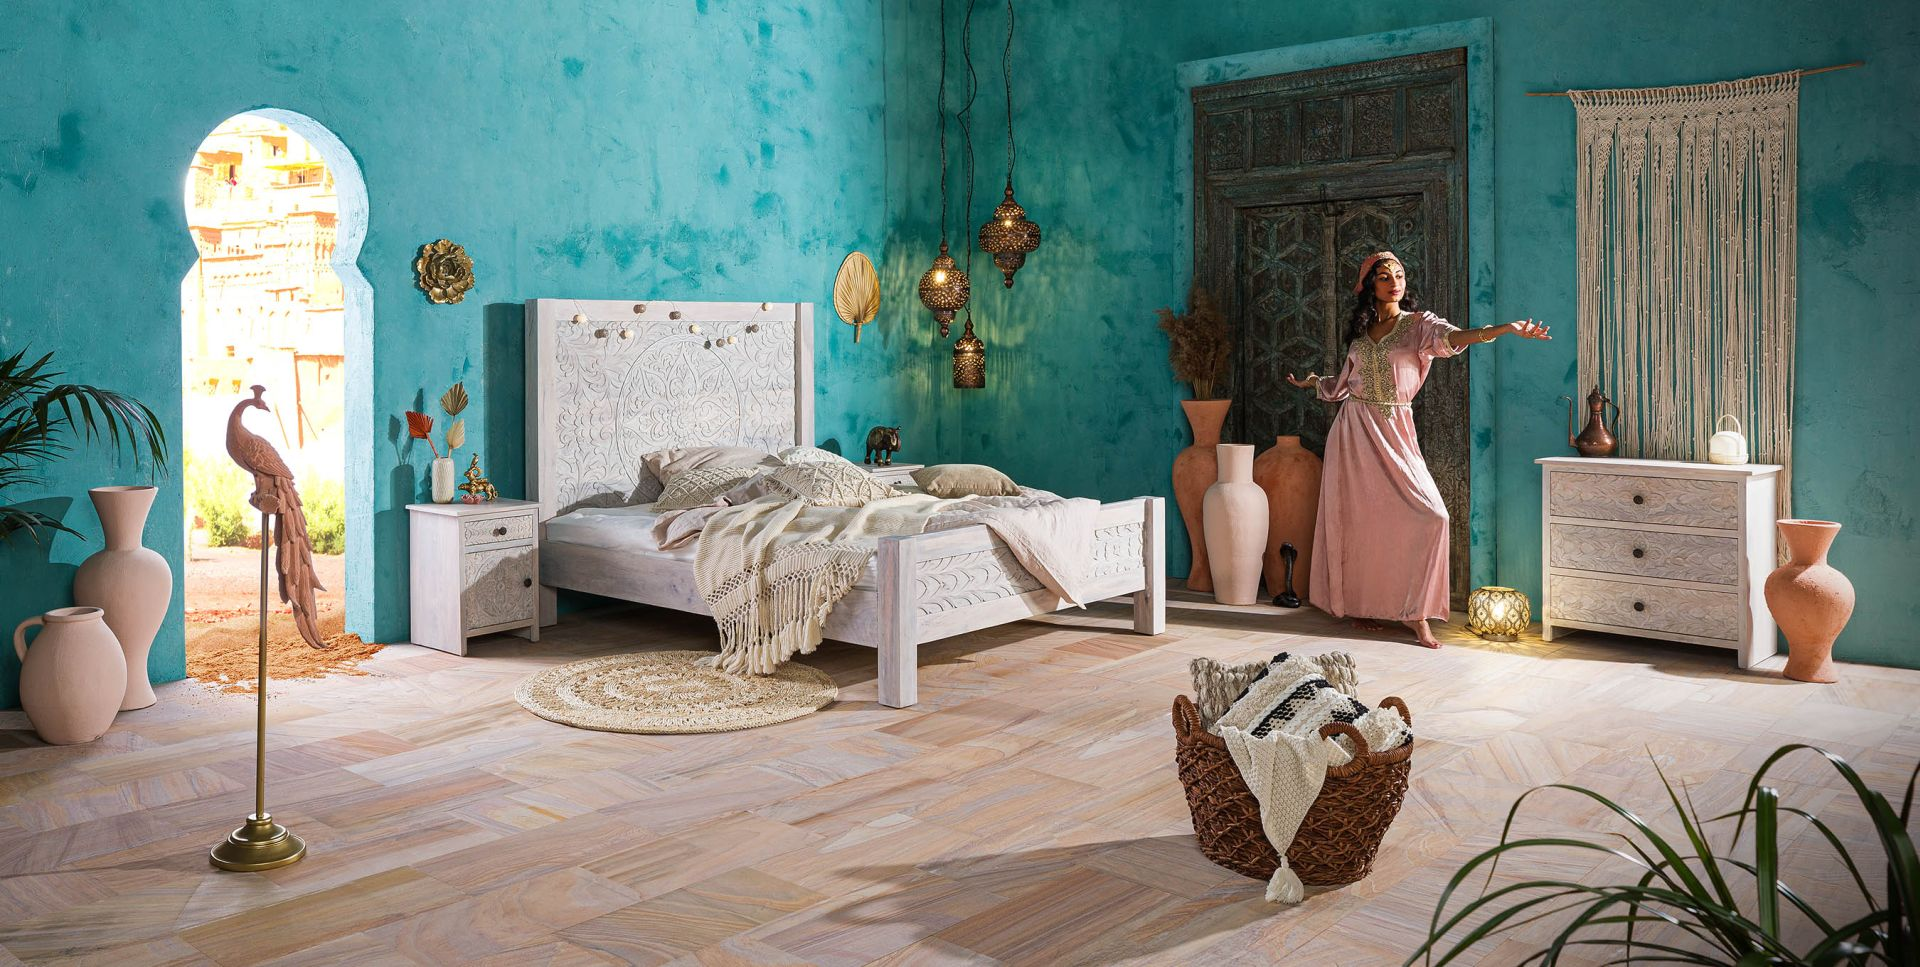
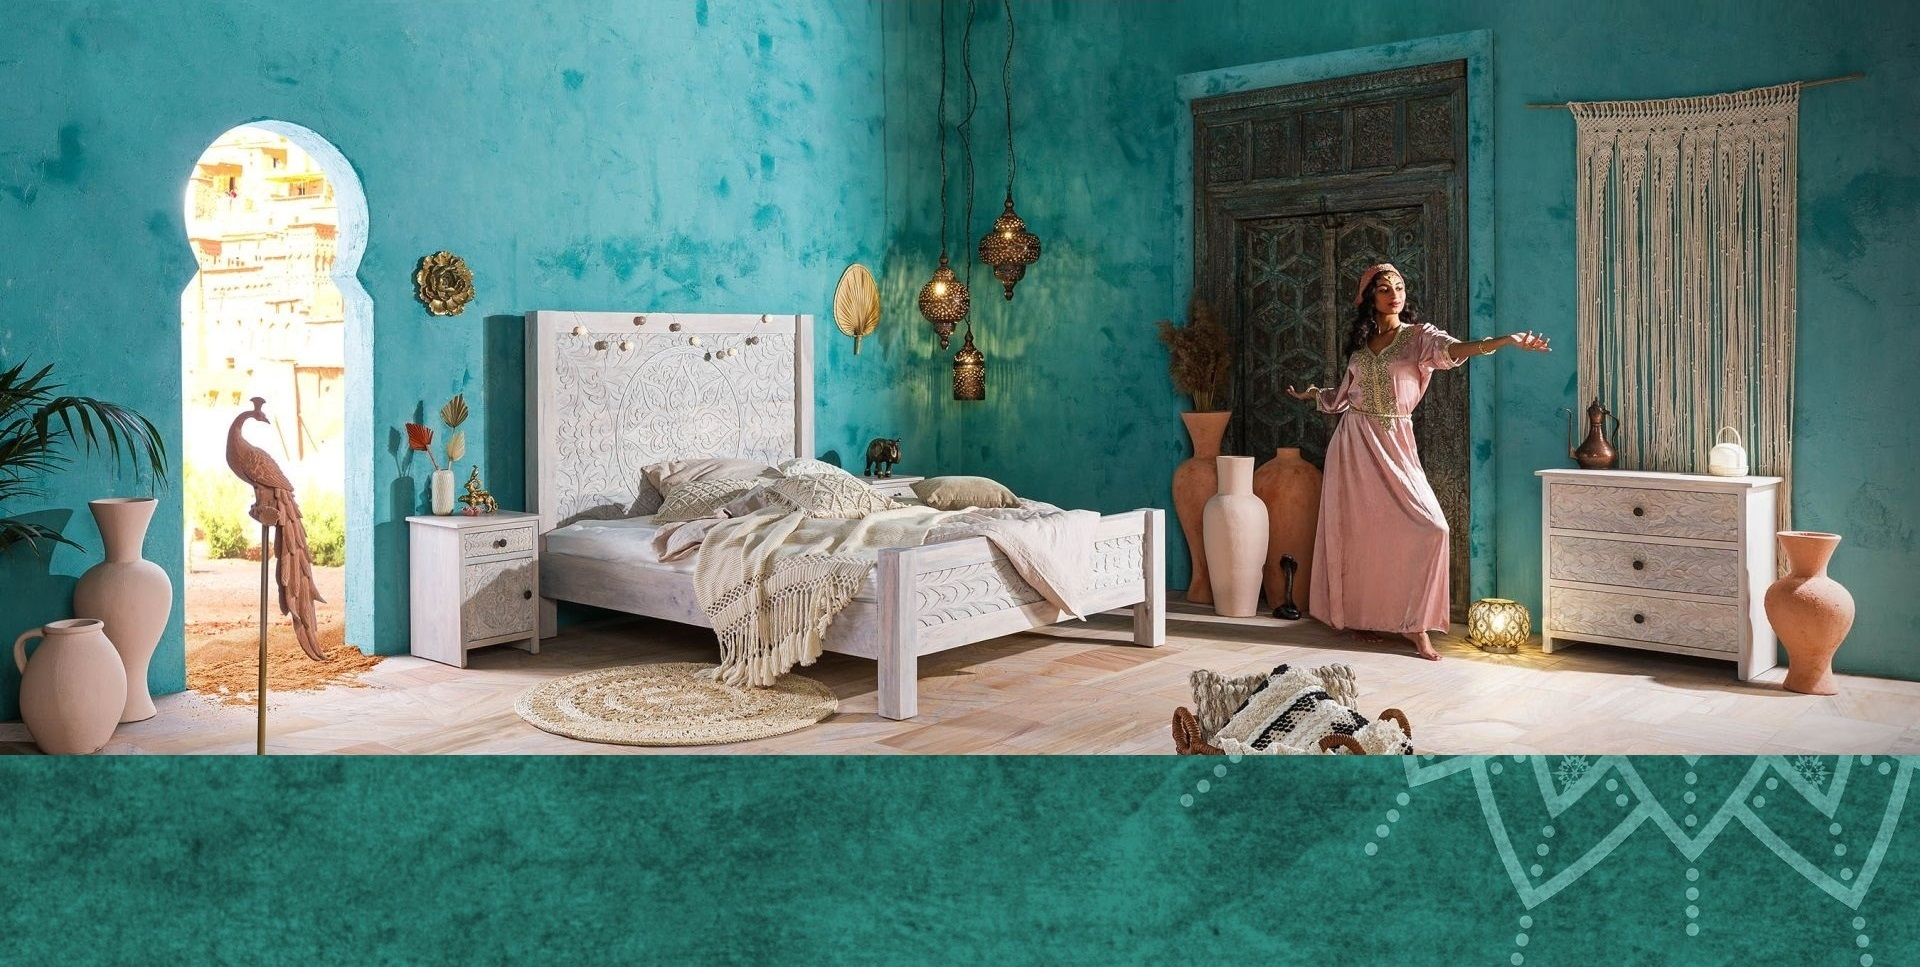
CSS_update

diff --git a/oxygen-webhelp/template/sky.css b/oxygen-webhelp/template/sky.css
@@ -31,6 +31,7 @@ body {
 }
 .wh_header {
   background-image: linear-gradient(#0b6a9c, transparent), url("resources/images/navclouds.jpg");
+  background-size: cover;
 }
 .wh_expand_btn:before {
   margin-left: 15px;
@@ -301,7 +302,7 @@ Example:
   text-align: center;
   background-color: #0b6a9c;
   background-image: url("resources/images/Clouds.jpg");
-  background-position: center bottom;
+  background-position: 70% bottom;
   background-size: cover;
 }
 .wh_main_page_search {
